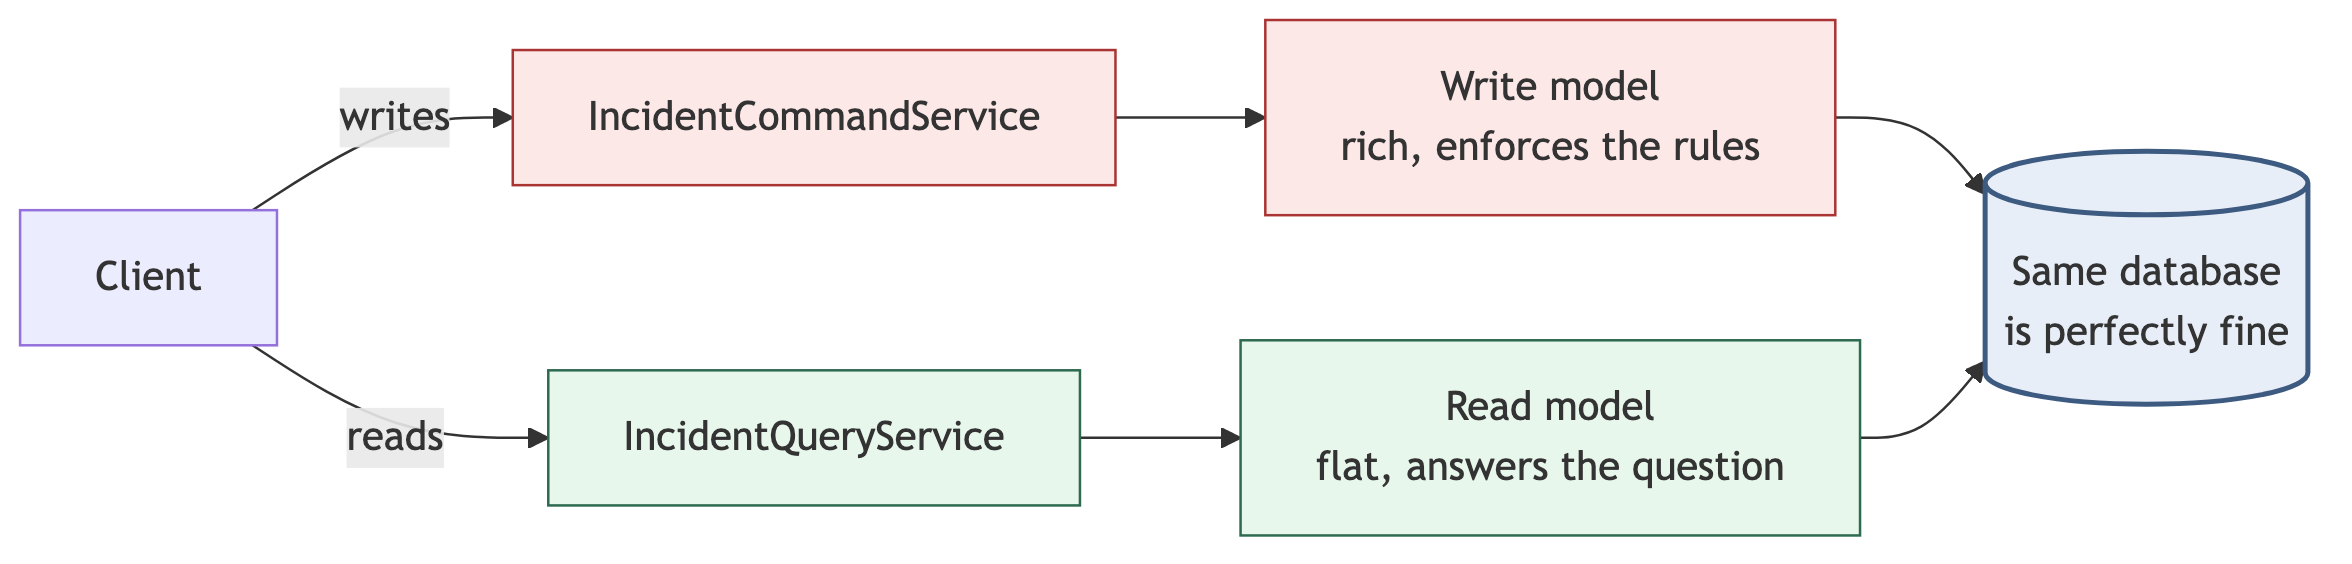
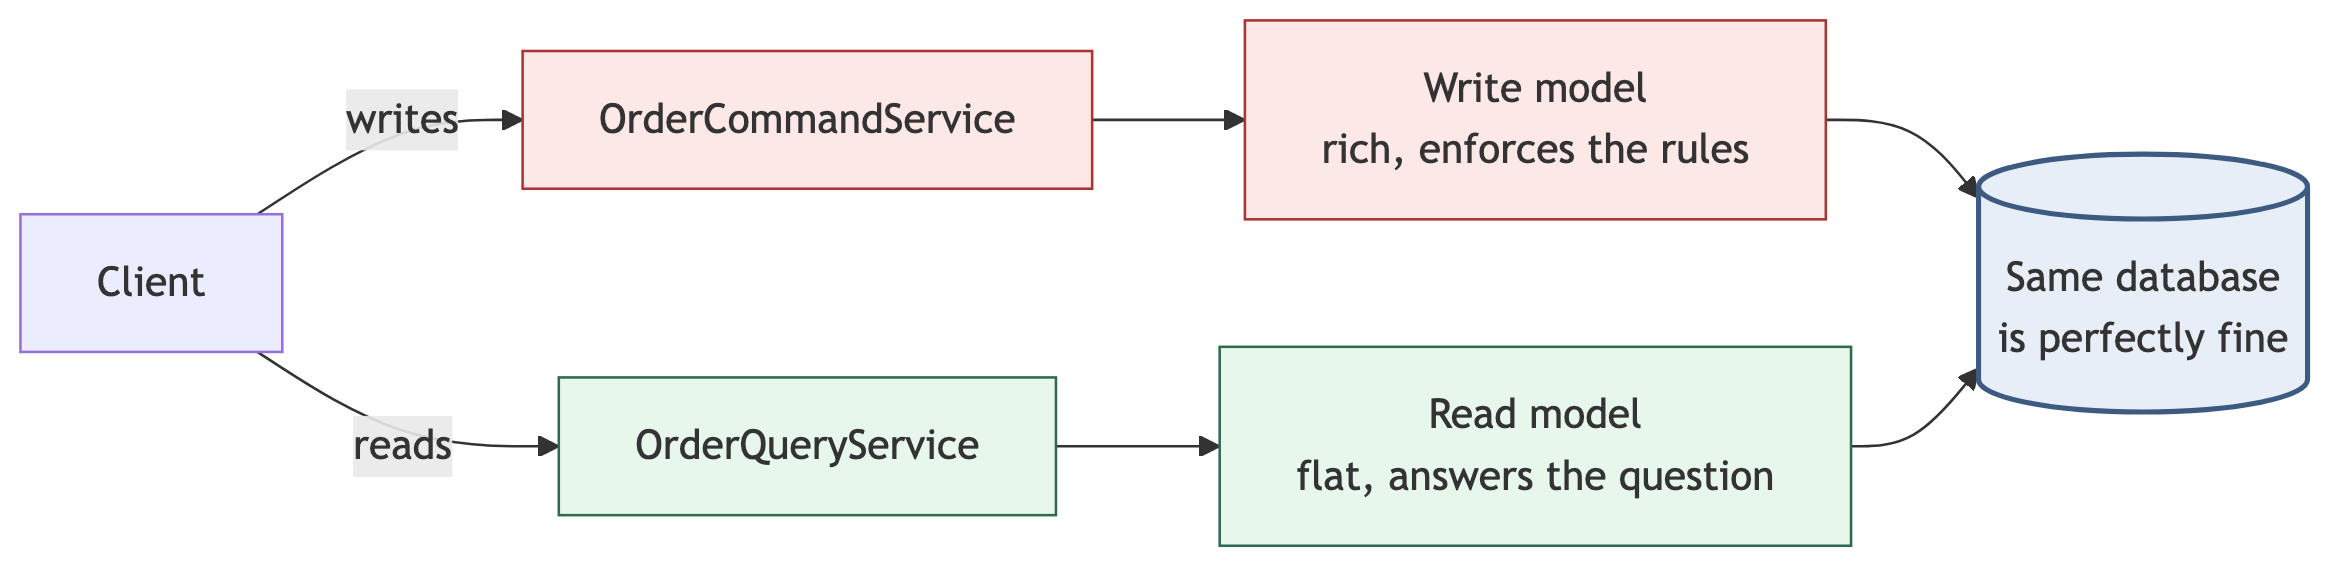
fix: Unified examples

diff --git a/_posts/2026-08-21-from-cqrs-to-event-driven-architecture.md b/_posts/2026-08-21-from-cqrs-to-event-driven-architecture.md
@@ -20,12 +20,12 @@ So take my hand, and let's walk through that investigation together. What I want
 These are the five ideas we'll go through:
 
 1. **CQRS.** Split reads and writes into separate code paths. Cheap. Requires no events at all.
-2. **Event sourcing.** Store facts instead of state. Expensive. Effectively forces CQRS on you.
-3. **Asynchronous request-reply.** Accept the request, return `202`, execute later.
-4. **Transactional outbox + Listen To Yourself.** One transaction for your state and your message, so neither can go missing.
-5. **Event-driven architecture.** Publish the fact, let the rest of the company consume it.
+2. **Event Sourcing.** Store facts instead of state. Expensive. Effectively forces CQRS on you.
+3. **Asynchronous Request-Reply.** Accept the request, return `202`, execute later.
+4. **Transactional Outbox + Listen To Yourself.** One transaction for your state and your message, so neither can go missing.
+5. **Event-Driven Architecture.** Publish the fact, let the rest of the company consume it.
 
-To compare them fairly, we'll often refer to the same example: an **incident management system**, borrowed from [Michael Ploed's SpringOne2GX talk](https://www.youtube.com/watch?v=A0goyZ9F4bg), the clearest walkthrough of this material I found while reading. Somebody reports that the printer on floor two is on fire, the report gets an ID and a description, a colleague corrects that description with the details that were missing, somebody takes the incident, somebody resolves it. A small domain, familiar to anybody who has worked in a team with an on-call rotation, and with one property that becomes important later: what happened, and in which order, matters as much as the state the incident is in right now.
+To compare them fairly, every step gets pointed at the same example: an **order management system**, the boring back end of any online shop. A customer places an order, changes the delivery address ten minutes later, pays, and eventually the thing ships. A small domain, familiar to everybody, and with one property that becomes important later.
 
 For every step I'll ask the same two things: what it fixes on that example, and what it charges in exchange. Plus a third one that mattered more to me at the time, which is whether it gets us any closer to fixing that endpoint.
 
@@ -34,13 +34,13 @@ For every step I'll ask the same two things: what it fixes on that example, and 
 It's worth being precise about what we're comparing against, because it's easy to turn it into an easy target, and it doesn't deserve that. The classic layered application has four properties, and they travel together:
 
 - Reads and writes go through the **same stack**: same endpoint, same service, same DAO.
-- They use the **same model**. One `Incident` class that is the business model, the persistence model, and (with a DTO or two of polish) the thing you send over the wire.
+- They use the **same model**. One `Order` class that is the business model, the persistence model, and (with a DTO or two of polish) the thing you send over the wire.
 - It's **one deployment unit**, usually against **one data store**.
 - Writes **mutate state in place**. You update a row, the old value is gone.
 
 <figure>
-  <img src="{{ site.baseurl }}/assets/article_images/2026-08-21-from-cqrs-to-event-driven-architecture/01-layered.png" alt="The classic layered stack: client, endpoint, business service, DAO and database, each layer holding its own shape of the same Incident">
-  <figcaption>One path, and the same Incident re-shaped four times along it</figcaption>
+  <img src="{{ site.baseurl }}/assets/article_images/2026-08-21-from-cqrs-to-event-driven-architecture/01-layered.png" alt="The classic layered stack: client, endpoint, business service, DAO and database, each layer holding its own shape of the same Order">
+  <figcaption>One path, and the same Order re-shaped four times along it</figcaption>
 </figure>
 
 This works. I want to say it clearly, because everything after this section is about alternatives and it would be easy to read the whole thing as a condemnation. Plenty of applications run on exactly this for years, and the people maintaining them sleep fine.
@@ -61,11 +61,11 @@ Let's start with the definition, because the name is far heavier than the idea. 
 That's all of it. A couple of objects inside one component, no broker, no event store anywhere in sight.
 
 <figure>
-  <img src="{{ site.baseurl }}/assets/article_images/2026-08-21-from-cqrs-to-event-driven-architecture/02-cqrs.png" alt="Plain CQRS: a command service with a rich write model and a query service with a flat read model, both against the same database">
+  <img src="{{ site.baseurl }}/assets/article_images/2026-08-21-from-cqrs-to-event-driven-architecture/02-cqrs.png" alt="Plain CQRS: an order command service with a rich write model and an order query service with a flat read model, both against the same database">
   <figcaption>The split is in the code, not in the infrastructure</figcaption>
 </figure>
 
-This alone addresses crack #1. Your write model can be a rich domain object with all its rules, your read model can be a flat denormalised thing that answers "all open incidents assigned to Marco, sorted by priority" in one query, and neither compromises for the other. No broker, no event store, no eventual consistency, no new operational work.
+This alone addresses crack #1. Your write model can be a rich domain object with all its rules, your read model can be a flat denormalised thing that answers "every unshipped order from this week, most valuable first" in one query, and neither compromises for the other. No broker, no event store, no eventual consistency, no new operational work.
 
 Worth saying once, since it confused me for weeks: CQRS and event sourcing are two separate patterns, and the dependency runs one way only. Event sourcing effectively forces CQRS on you, for reasons we'll get to. CQRS needs nothing from event sourcing at all. Greg Young, who coined the term, has been repeating this for years, in a post titled [*CQRS is not an Architecture*](https://gregfyoung.wordpress.com/2012/09/09/cqrs-is-not-an-architecture/). Almost every article presents them as one package, and I read them that way, which is why the cheap idea looked to me like it carried the expensive idea's price tag.
 
@@ -75,7 +75,7 @@ If you take one thing from this article, take this one. You can have this step r
 
 Event sourcing answers a different question altogether: *what do we store?*
 
-**Event sourcing** determines application state from a sequence of events. Not rows holding current values, but the ordered list of everything that ever happened. Instead of a row that says `balance = 100`, you store `Deposited(+50)`, `Deposited(+100)`, `Withdrawn(-50)`. Current state isn't stored at all: you get it by replaying the list.
+**Event sourcing** determines application state from a sequence of events. Not rows holding current values, but the ordered list of everything that ever happened. Instead of a row that says `status = SHIPPED`, you store `OrderPlaced`, then `DeliveryAddressChanged`, then `OrderShipped`. Current state isn't stored at all: you get it by replaying the list.
 
 My first reaction was suspicion, and I don't think that's unusual. But then you start noticing how many domains are *already* shaped like this. A package moving through a logistics network is a sequence of events. A version control repository is a sequence of commits, and `git` reconstructs your working tree by replaying them. Your relational database's own write-ahead log works on the same principle, quietly, underneath the very system you were about to call "the normal way".
 
@@ -86,22 +86,22 @@ Two rules come with that definition. An event is something that **happened**, ne
 There aren't many moving parts: the **application** produces events, an **event queue** carries them (in practice a message broker), **event handlers** react to them, and the **event store** keeps them durably, forever. The ordered sequence flowing through all of it is the **event stream**.
 
 <figure>
-  <img src="{{ site.baseurl }}/assets/article_images/2026-08-21-from-cqrs-to-event-driven-architecture/03-event-sourcing.png" alt="Event sourcing building blocks: the application, an event queue carrying the incident events, event handlers, and the append-only event store">
+  <img src="{{ site.baseurl }}/assets/article_images/2026-08-21-from-cqrs-to-event-driven-architecture/03-event-sourcing.png" alt="Event sourcing building blocks: the application, an event queue carrying the order events, event handlers, and the append-only event store">
   <figcaption>The application appends facts, handlers react, the store keeps everything forever</figcaption>
 </figure>
 
 ### A worked example
 
-Back to the incident example now. A user submits an incident, someone corrects its description, someone resolves it.
+Back to the order example now. A customer places an order, then changes the delivery address, then the order ships.
 
 In the classic architecture, that's an `INSERT` and two `UPDATE`s, leaving one row in its final state. The description the user *originally* wrote is gone. When it changed, and to what, is gone.
 
 In an event-sourced system, that's three events, appended:
 
 ```
-IncidentReported(id=42, text="printer on fire", reportedBy=riccardo)
-IncidentTextChanged(id=42, text="printer on fire, floor 2, smoke visible")
-IncidentResolved(id=42, resolvedBy=marco, resolution="replaced fuser unit")
+OrderPlaced(id=42, customer=riccardo, items=[...], total=89.90)
+DeliveryAddressChanged(id=42, address="via Roma 12, Jesi")
+OrderShipped(id=42, carrier="BRT", tracking="0042ABC")
 ```
 
 Nothing was overwritten. Current state is what you get by replaying those three in order, and so is the state *as of yesterday*, if you replay only the events up to yesterday.
@@ -110,14 +110,14 @@ Nothing was overwritten. Current state is what you get by replaying those three 
 
 Storing facts instead of state raises an obvious question. How do you query any of this?
 
-It's often said that event stores have terrible query performance, and that's not quite right. An event store is excellent at the one question it exists to answer: give me every event for aggregate 42, in order. That's an indexed range scan, and it's fast. What it cannot do is answer *your* question. "All open incidents assigned to Marco, sorted by priority" spans thousands of streams, and no index makes replaying all of them viable.
+It's often said that event stores have terrible query performance, and that's not quite right. An event store is excellent at the one question it exists to answer: give me every event for aggregate 42, in order. That's an indexed range scan, and it's fast. What it cannot do is answer *your* question. "Every unshipped order from this week, most valuable first" spans thousands of streams, and no index makes replaying all of them viable.
 
 So you build the answer in advance. An event handler subscribes to the stream and **projects** it into a read model shaped like the question, and if you can build one projection you can build several: one for the dashboard, one for the search box, another one holding last week's state if somebody asks for it. The application queries those, never the raw log.
 
 And that is CQRS, reached by necessity rather than by choice. Once your source of truth is an event stream, a separate read model isn't an option you evaluate, it's the only way to serve a query at all. This is why the two are almost always taught as one thing: the expensive pattern cannot work without the cheap one, so anybody explaining event sourcing has to explain CQRS on the way. What gets lost is that the reverse isn't true.
 
 <figure>
-  <img src="{{ site.baseurl }}/assets/article_images/2026-08-21-from-cqrs-to-event-driven-architecture/04-es-cqrs.png" alt="Event-sourced CQRS: the command service appends to the event store, snapshots are taken every N events, an event handler projects the stream into read models, and the query service reads those">
+  <img src="{{ site.baseurl }}/assets/article_images/2026-08-21-from-cqrs-to-event-driven-architecture/04-es-cqrs.png" alt="Event-sourced CQRS: the order command service appends to the event store, snapshots are taken every N events, an event handler projects the stream into read models, and the order query service reads those">
   <figcaption>The same split as before, with considerably more machinery</figcaption>
 </figure>
 
@@ -259,4 +259,4 @@ I never did end up needing an event store. What I needed was a table with a `sta
 
 ---
 
-*Michael Ploed's [SpringOne2GX 2015 talk on CQRS and Event Sourcing](https://www.youtube.com/watch?v=A0goyZ9F4bg) is the clearest single walkthrough of the event-sourced end of this story, and the source of the incident management example. For the case that CQRS is a much smaller thing than its reputation suggests, see Greg Young's [CQRS is not an Architecture](https://gregfyoung.wordpress.com/2012/09/09/cqrs-is-not-an-architecture/) and [Martin Fowler's bliki entry](https://martinfowler.com/bliki/CQRS.html). For a concrete outbox implementation in Spring Boot, [this repository](https://github.com/ChintaHari/springboot-transactional-outbox-pattern) is a good starting point.*
+*Michael Ploed's [SpringOne2GX 2015 talk on CQRS and Event Sourcing](https://www.youtube.com/watch?v=A0goyZ9F4bg) is the clearest single walkthrough of the event-sourced end of this story, and the source of the structure I followed here. For the case that CQRS is a much smaller thing than its reputation suggests, see Greg Young's [CQRS is not an Architecture](https://gregfyoung.wordpress.com/2012/09/09/cqrs-is-not-an-architecture/) and [Martin Fowler's bliki entry](https://martinfowler.com/bliki/CQRS.html). For a concrete outbox implementation in Spring Boot, [this repository](https://github.com/ChintaHari/springboot-transactional-outbox-pattern) is a good starting point.*
